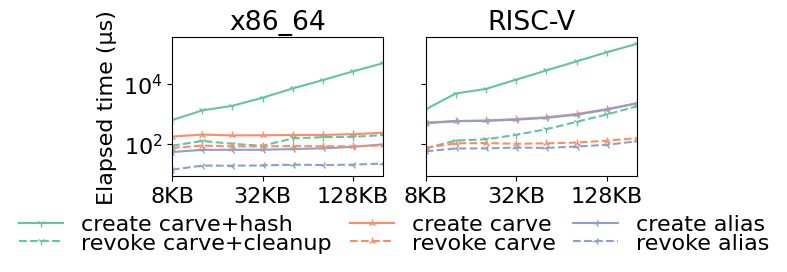
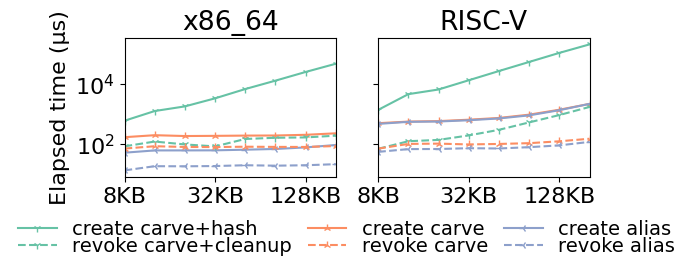
create-revoke tweaks

diff --git a/scripts/create_all.py b/scripts/create_all.py
@@ -134,9 +134,9 @@ labels = [
     "revoke alias"
 ]
 # ax1.legend(lines, labels, loc='upper center', bbox_to_anchor=(0.5, -0.12), fancybox=False, ncol=3)
-plt.legend(lines, labels, loc='lower center', bbox_to_anchor=(-0.15, -0.7), fancybox=False, ncol=3, labelspacing=-0.06, columnspacing=0.8, frameon=False)
+plt.legend(lines, labels, loc='lower center', bbox_to_anchor=(-0.15, -0.7), fancybox=False, ncol=3, labelspacing=-0.06, columnspacing=0.8, frameon=False, fontsize=14)
 fig.subplots_adjust(bottom=0.25)
-plt.rc("legend", fontsize=20)
+plt.rc("legend")
 
 pow_min = 3
 pow_max = 10
